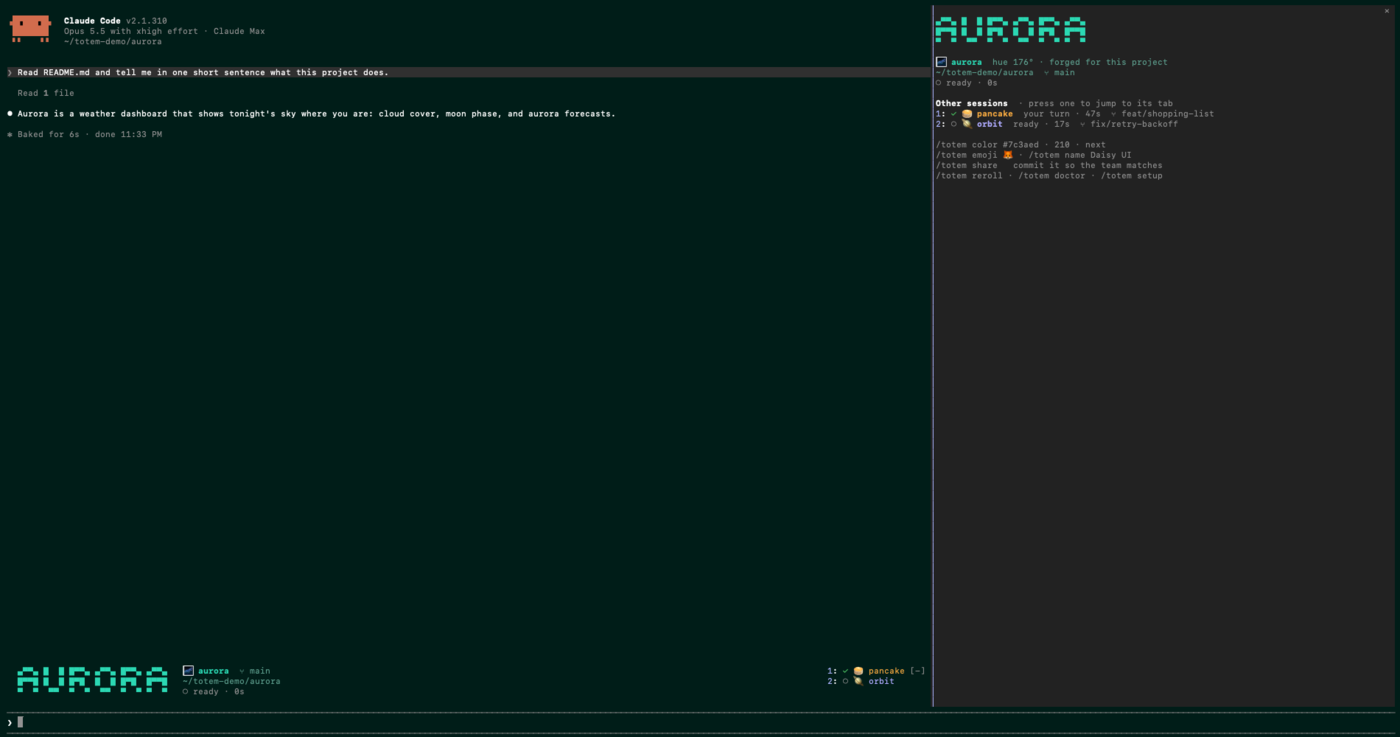
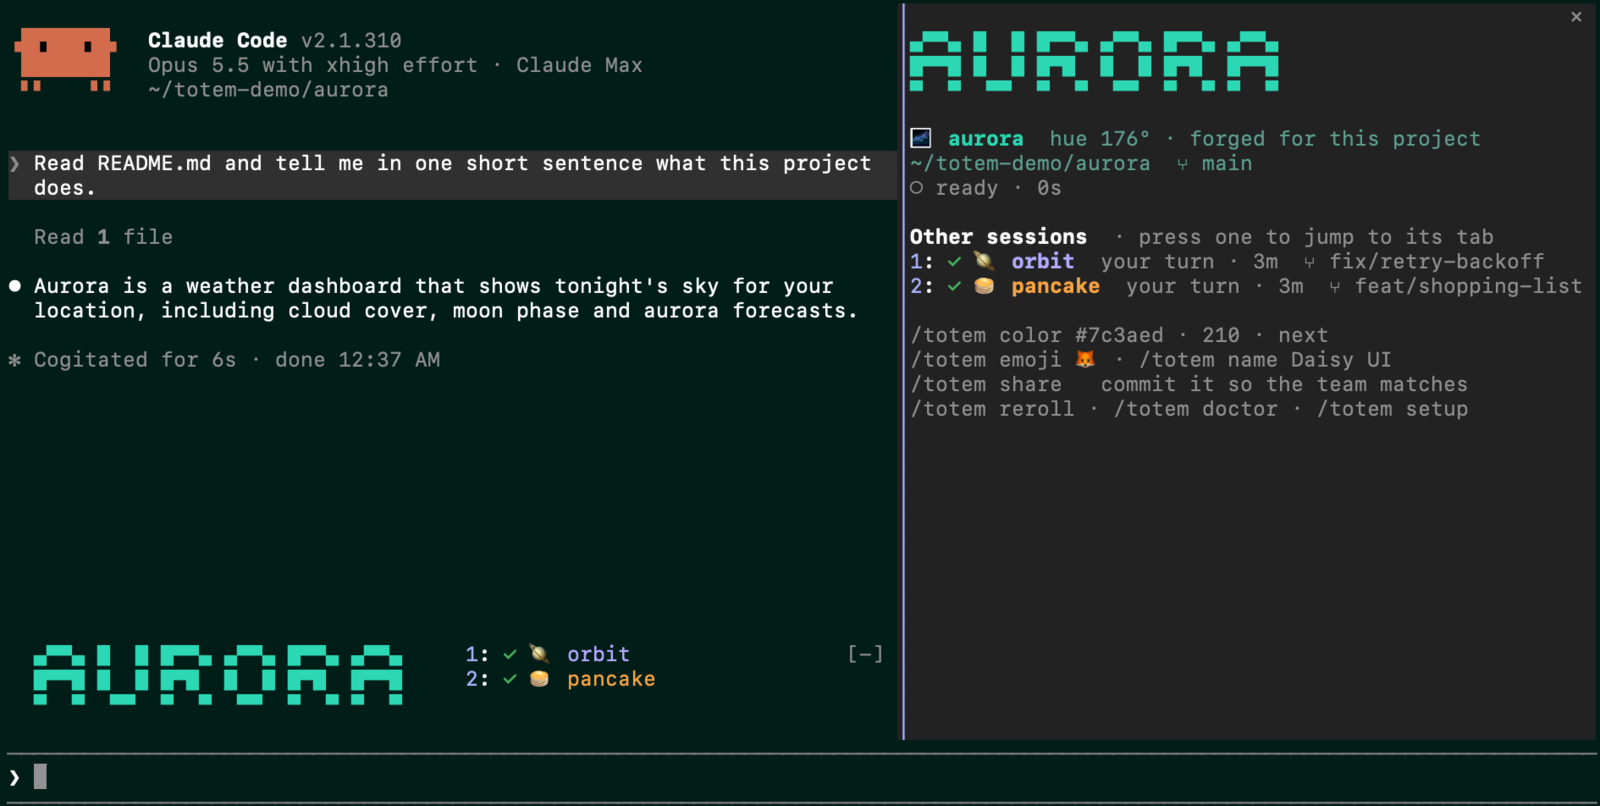
Retake the README screenshots at a large font, add a band close-up, a TOTEM_HOME option for isolated sessions, and cleaner slugs for non-Latin folder names.

diff --git a/hooks/register.tsx b/hooks/register.tsx
@@ -322,7 +322,9 @@ async function setState($: $, next: TotemState) {
 
 async function boot($: $, cwd: string) {
   const home = (await $.env.get('HOME')) ?? ''
-  const dir = `${home}/.claude/totem`
+  // TOTEM_HOME keeps a session's totems and radar apart from everyone
+  // else's: a test or demo session sees only its own kind.
+  const dir = (await $.env.get('TOTEM_HOME'))?.trim() || `${home}/.claude/totem`
   const [tty, program, sessionId, root, repo] = await Promise.all([
     findTty($),
     detectProgram($),
@@ -551,7 +553,7 @@ async function doctor($: $): Promise<string> {
     lines.push(`- Terminal.app tab titles: clean (the "${extras.profile}" profile adds no process name).`)
   }
   const list = await read($, peers)
-  lines.push(`- radar: ${list.length} other session${list.length === 1 ? '' : 's'} live`)
+  lines.push(`- radar: ${list.length} other session${list.length === 1 ? '' : 's'} live${rt ? `, in ${rt.dir}` : ''}`)
   if (v.identity) {
     lines.push(
       `- this project: ${v.identity.emoji} ${v.identity.name}, hue ${v.identity.hue}°, ${v.identity.source}`,

diff --git a/hooks/identity.ts b/hooks/identity.ts
@@ -46,9 +46,13 @@ export const basename = (path: string) =>
   path.replace(/\/+$/, '').split('/').pop() || path
 
 export function slug(key: string): string {
-  const name = basename(key).toLowerCase().replace(/[^a-z0-9]+/g, '-').slice(0, 40)
+  const name = basename(key)
+    .toLowerCase()
+    .replace(/[^a-z0-9]+/g, '-')
+    .replace(/^-+|-+$/g, '')
+    .slice(0, 40)
 
-  return `${name || 'root'}-${hash(key).toString(16).padStart(8, '0')}`
+  return `${name || 'project'}-${hash(key).toString(16).padStart(8, '0')}`
 }
 
 export function hashed(key: string): { emoji: string; hue: number } {

diff --git a/tests/totem.test.tsx b/tests/totem.test.tsx
@@ -202,6 +202,8 @@ describe('font and names', () => {
   test('slugs are stable and safe', () => {
     expect(slug('/a/My Project')).toBe(slug('/a/My Project'))
     expect(slug('/a/My Project')).toMatch(/^my-project-[0-9a-f]{8}$/)
+    expect(slug('/a/اشبيليا')).toMatch(/^project-[0-9a-f]{8}$/)
+    expect(slug('/a/(draft) site!')).toMatch(/^draft-site-[0-9a-f]{8}$/)
   })
 
   test('the radar puts whoever needs you first', () => {

diff --git a/README.md b/README.md
@@ -16,6 +16,8 @@ totem gives each project an identity you recognize before you read anything:
 - **A radar of your other sessions.** On the right of the band: every other live session, the one that needs you first. Click one (or press its number after `ctrl+x tab`) and its tab comes to the front.
 - **Nudges.** When another session hits a permission prompt, or finishes a turn that took more than 30 seconds, the session you are looking at tells you so.
 
+![The band above the prompt, up close: PANCAKE in amber pixel letters, then the pancake emoji and name, its branch feat/shopping-list, its path, and "your turn · 2m".](docs/band.png)
+
 ![Switching tabs between the three demo sessions: the whole window changes color with each project.](docs/tabs.gif)
 
 ## The smart part
@@ -138,6 +140,8 @@ claude --plugin-dir .          # run it from this folder; saves hot-reload
 claude plugin test .           # the tests in tests/
 claude plugin validate .       # what the engine will load, and what it would refuse
 ```
+
+`TOTEM_HOME=/some/folder claude --plugin-dir .` gives a session its own totems and radar, so test sessions only see each other and never your real ones. If you also have totem installed, add `--settings '{"enabledPlugins":{"totem@claude-totem":false}}'` so only the working copy runs.
 
 Once a session has loaded the folder, `.claude-plugin/types/` holds this build's API declarations and `tsc -p .` type-checks the mod. See [CONTRIBUTING.md](CONTRIBUTING.md) for where things live and what would help most.
 
